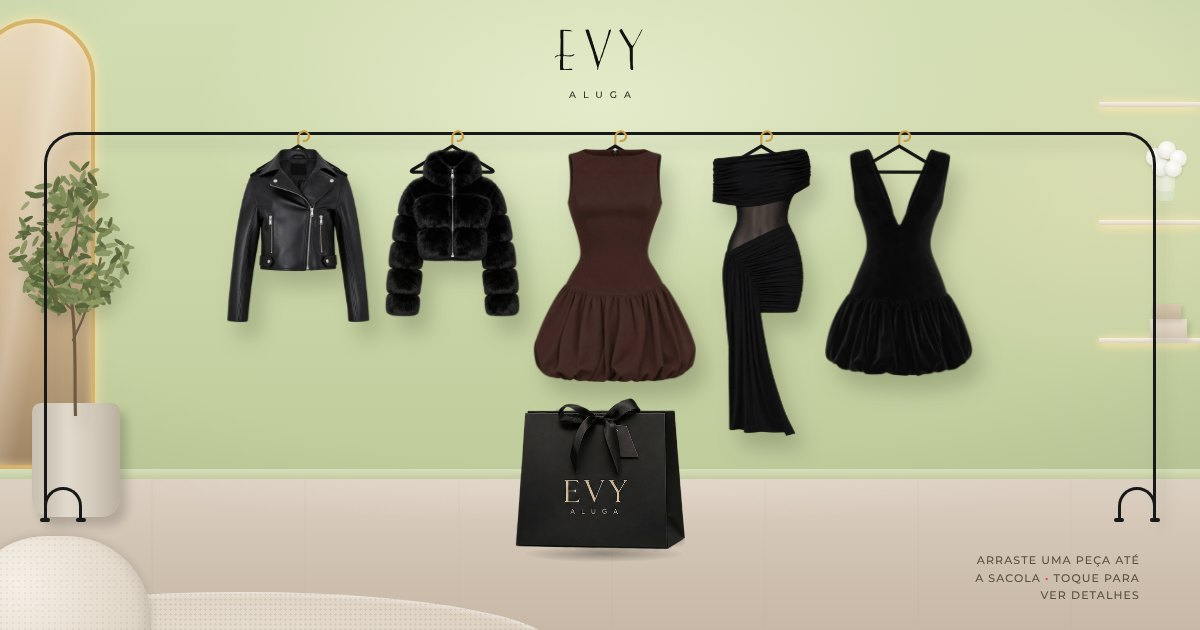
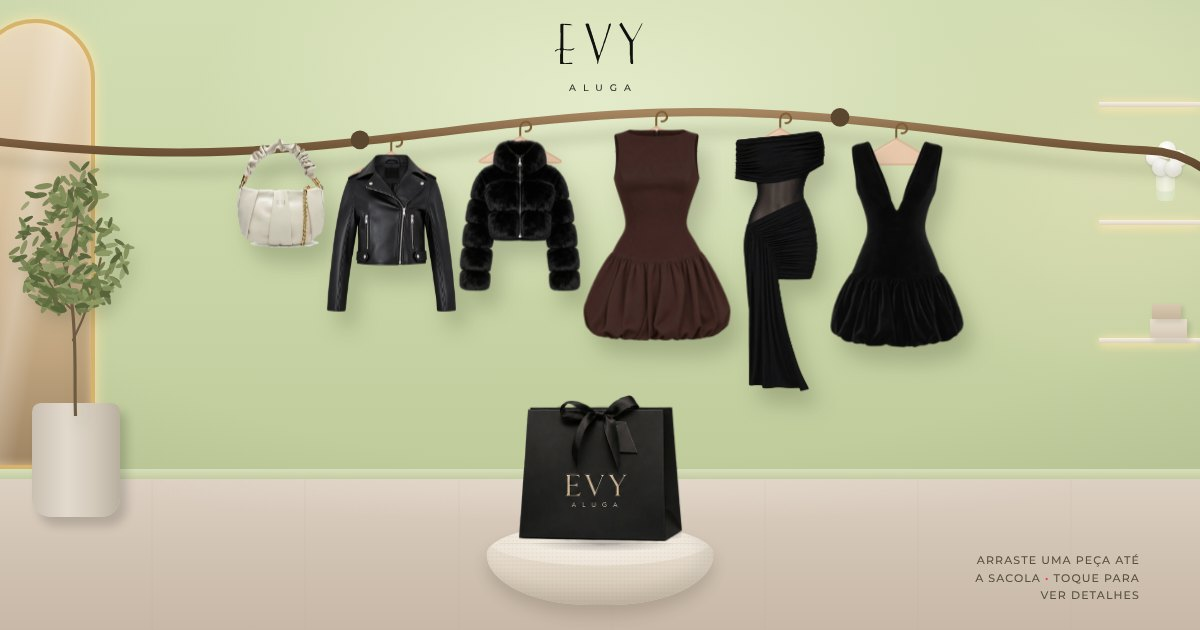
Vitrine EVY: barra ondulada na parede, cabides de madeira e sacola sobre puff
- Arara de chão substituída por barra de madeira ondulada presa à parede;
  cada peça pende na altura da curva.
- Cabides de madeira clara com gancho bronze; bolsa Lorena pendurada pela alça.
- Sacola EVY maior, apoiada em puff redondo de bouclê.

Claude-Session: https://claude.ai/code/session_01JWzVUeVVFgoHDUGqF9rBry

diff --git a/css/evy.css b/css/evy.css
@@ -81,7 +81,7 @@ h1,h2,h3{margin:0;font-weight:500;line-height:1.1}
   radial-gradient(ellipse 30% 60% at 92% 40%,#F3E5C255 0%,transparent 70%),
   linear-gradient(180deg,#D3DDB3 0%,var(--salvia) 55%,#BFCB9B 100%)}
 .parede::after{content:"";position:absolute;inset:0;background:radial-gradient(ellipse 85% 95% at 50% 40%,transparent 60%,#7d875f33 100%)}
-.marca-parede{position:absolute;left:50%;top:4%;transform:translateX(-50%);display:grid;justify-items:center;gap:1.6cqh}
+.marca-parede{position:absolute;left:50%;top:3%;transform:translateX(-50%);display:grid;justify-items:center;gap:1.6cqh}
 .marca-parede img{width:15cqh;height:auto;opacity:.92}
 .marca-parede span{font-size:1.5cqh;font-weight:500;letter-spacing:1.1cqh;margin-right:-1.1cqh;color:#2b2d24}
 .rodape-parede{position:absolute;left:0;right:0;top:calc(var(--chao) - 1.6cqh);height:1.6cqh;background:linear-gradient(180deg,#D6DEBC,#C3CDA0);box-shadow:0 .3cqh .4cqh #6b6a4b33}
@@ -111,24 +111,17 @@ h1,h2,h3{margin:0;font-weight:500;line-height:1.1}
 .vaso-flores{position:absolute;right:4cqh;top:calc(48% - 8cqh);width:3cqh;height:5cqh;border-radius:.6cqh .6cqh 1cqh 1cqh;background:linear-gradient(90deg,#ffffff55,#ffffffaa,#ffffff55);box-shadow:inset 0 -1.5cqh 0 #c9d7b066}
 .vaso-flores b{position:absolute;width:2.8cqh;height:2.8cqh;border-radius:50%;background:radial-gradient(circle at 40% 35%,#fff,#F1EEE6 60%,#DCD6C8);box-shadow:0 .2cqh .4cqh #0002}
 .vaso-flores b:nth-child(1){left:-1.6cqh;top:-3.4cqh}.vaso-flores b:nth-child(2){left:.4cqh;top:-4.6cqh}.vaso-flores b:nth-child(3){left:2.2cqh;top:-3.2cqh}.vaso-flores b:nth-child(4){left:-.6cqh;top:-1.8cqh}.vaso-flores b:nth-child(5){left:1.4cqh;top:-1.6cqh}
-/* Puff de bouclê no primeiro plano */
-.puff{position:absolute;z-index:12;left:-6cqh;bottom:-9cqh;width:30cqh;height:24cqh;border-radius:45% 45% 20% 20%/55% 55% 20% 20%;pointer-events:none;
-  background:radial-gradient(circle at 30% 30%,#F5EFE6 0%,#E8DFD2 45%,#D6CAB9 100%);box-shadow:inset -1cqh -1cqh 2cqh #0000001a,0 -.2cqh 1.4cqh #0000001f}
-.puff::after{content:"";position:absolute;inset:0;border-radius:inherit;background:radial-gradient(#0000000d 1px,transparent 1.4px) 0 0/6px 6px;opacity:.9}
 
-/* Arara de metal preto: barra com cantos arredondados e pés em arco */
+/* Barra ondulada presa à parede (desenhada pelo script conforme a largura) */
 .arara-rolagem{position:absolute;inset:0;overflow-x:auto;overflow-y:hidden;scrollbar-width:none;overscroll-behavior-x:contain;z-index:2}
 .arara-rolagem::-webkit-scrollbar{display:none}
-.arara{position:relative;height:100%;min-width:100%;width:max-content;padding:0 12cqh;display:flex;justify-content:center}
-.arara-barra{position:absolute;pointer-events:none;left:7cqh;right:7cqh;top:21%;bottom:calc(100% - var(--chao) - 6.5cqh);border:.55cqh solid var(--metal);border-bottom:0;border-radius:5cqh 5cqh 0 0;z-index:1;
-  filter:drop-shadow(1.2cqh 1.6cqh 1cqh #3d43293a)}
-.arara-pe{position:absolute;pointer-events:none;bottom:calc(100% - var(--chao) - 6.5cqh);width:6cqh;height:5.2cqh;border:.55cqh solid var(--metal);border-bottom:0;border-radius:3cqh 3cqh 0 0;z-index:1}
-.arara-pe::before,.arara-pe::after{content:"";position:absolute;bottom:-.3cqh;width:1.6cqh;height:.6cqh;border-radius:.3cqh;background:var(--metal)}
-.arara-pe::before{left:-1.1cqh}.arara-pe::after{right:-1.1cqh}
-.arara-pe--esq{left:calc(7cqh + .55cqh - .55cqh)}
-.arara-pe--dir{right:calc(7cqh + .55cqh - .55cqh)}
-.arara-pe--esq{transform:translateX(0)}
-.arara-pecas{position:relative;z-index:2;list-style:none;margin:calc(21cqh - 1.1cqh) 0 0;padding:0;display:flex;align-items:flex-start;gap:2.4cqh;height:fit-content}
+.arara{position:relative;height:100%;min-width:100%;width:max-content;padding:0 14cqh;display:flex;justify-content:center}
+.arara-curva{position:absolute;left:0;top:0;width:100%;height:100%;overflow:visible;pointer-events:none;z-index:1}
+.arara-curva .sombra{fill:none;stroke:#59613f;stroke-opacity:.22;stroke-linecap:round;filter:blur(6px)}
+.arara-curva .madeira{fill:none;stroke:url(#evyMadeira);stroke-linecap:round}
+.arara-curva .suporte{fill:#5b4630}
+.arara-pecas{position:relative;z-index:2;list-style:none;margin:calc(21cqh - 1.1cqh) 0 0;padding:0;display:flex;align-items:flex-start;gap:.4cqh;height:fit-content}
+.arara-pecas>li{transform:translateY(var(--dy,0px))}
 .arara-pecas>li{position:relative}
 
 .peca{
@@ -137,12 +130,13 @@ h1,h2,h3{margin:0;font-weight:500;line-height:1.1}
   touch-action:pan-x;-webkit-tap-highlight-color:transparent;
 }
 .peca:active{cursor:grabbing}
+.peca.sem-cabide .peca-foto{margin-top:-.4cqh}
 .peca-corpo{display:flex;flex-direction:column;align-items:center;transform-origin:50% 1.4cqh;transform:rotate(var(--balanco));will-change:transform}
 .cabide{width:15cqh;height:8.4cqh;flex:none;overflow:visible;position:relative;z-index:1}
-.cabide .gancho{fill:none;stroke:#C9A04A;stroke-width:3.6;stroke-linecap:round}
-.cabide .ombro{fill:none;stroke:#141414;stroke-width:5.5;stroke-linecap:round;stroke-linejoin:round}
-.cabide .brilho{fill:none;stroke:#4a4a4a;stroke-width:1.2;stroke-linecap:round;opacity:.8}
-.peca-foto{position:relative;z-index:2;height:calc(var(--len) * 43cqh);width:auto;max-width:none;margin-top:-4.6cqh;pointer-events:none;
+.cabide .gancho{fill:none;stroke:#7A5B34;stroke-width:3.4;stroke-linecap:round}
+.cabide .ombro{fill:#E8C9AE;stroke:#D9B394;stroke-width:3;stroke-linecap:round;stroke-linejoin:round}
+.cabide .brilho{fill:none;stroke:#F6E3D2;stroke-width:1.4;stroke-linecap:round;opacity:.9}
+.peca-foto{position:relative;z-index:2;height:calc(var(--len) * 39cqh);width:auto;max-width:none;margin-top:-4.6cqh;pointer-events:none;
   filter:drop-shadow(1.6cqh 2.6cqh 1.6cqh #3d452a42);transition:filter .3s}
 @media (hover:hover) and (pointer:fine){
   .peca:hover .peca-foto{filter:drop-shadow(2cqh 3.2cqh 2cqh #3d452a55)}
@@ -151,7 +145,7 @@ h1,h2,h3{margin:0;font-weight:500;line-height:1.1}
 .peca.na-sacola{cursor:default}
 .peca:focus-visible{outline:none}
 .peca:focus-visible .peca-foto{outline:2px solid var(--preto);outline-offset:6px;border-radius:8px}
-.peca-nome{position:absolute;left:50%;top:calc(var(--len) * 43cqh + 6cqh);transform:translate(-50%,6px);white-space:nowrap;font-size:11px;font-weight:600;letter-spacing:.1em;text-transform:uppercase;background:var(--preto);color:var(--branco);padding:6px 12px;border-radius:999px;opacity:0;pointer-events:none;transition:opacity .2s,transform .2s;z-index:4}
+.peca-nome{position:absolute;left:50%;top:calc(var(--len) * 39cqh + 6cqh);transform:translate(-50%,6px);white-space:nowrap;font-size:11px;font-weight:600;letter-spacing:.1em;text-transform:uppercase;background:var(--preto);color:var(--branco);padding:6px 12px;border-radius:999px;opacity:0;pointer-events:none;transition:opacity .2s,transform .2s;z-index:4}
 @media (hover:hover) and (pointer:fine){
   .peca:not(.na-sacola):hover .peca-nome{opacity:1;transform:translate(-50%,0)}
 }
@@ -163,8 +157,15 @@ h1,h2,h3{margin:0;font-weight:500;line-height:1.1}
 .peca-voando img{display:block;width:100%;height:100%;filter:drop-shadow(2cqh 4cqh 2.6cqh #1d22143d)}
 .peca-voando.caindo{z-index:5}
 
-.sacola{position:absolute;z-index:10;left:50%;bottom:12%;width:27cqh;aspect-ratio:336/309;transform:translateX(-50%);padding:0;border:0;background:transparent;-webkit-tap-highlight-color:transparent}
-.sacola::after{content:"";position:absolute;left:4%;right:0;bottom:-1.2cqh;height:2.6cqh;border-radius:50%;background:radial-gradient(ellipse at 50% 50%,#0000004d,transparent 70%);z-index:-1}
+.sacola{position:absolute;z-index:10;left:50%;bottom:calc(4% + 9.4cqh);width:26cqh;aspect-ratio:336/309;transform:translateX(-50%);padding:0;border:0;background:transparent;-webkit-tap-highlight-color:transparent}
+.sacola::after{content:"";position:absolute;left:8%;right:4%;bottom:-1cqh;height:2.4cqh;border-radius:50%;background:radial-gradient(ellipse at 50% 50%,#00000040,transparent 70%);z-index:-1}
+/* Puff redondo de bouclê onde a sacola fica apoiada */
+.puff-sacola{position:absolute;z-index:9;left:50%;bottom:4%;width:36cqh;height:13cqh;transform:translateX(-50%);pointer-events:none;
+  border-radius:50% 50% 46% 46%/38% 38% 62% 62%;
+  background:radial-gradient(ellipse 70% 45% at 50% 20%,#F7F1E8 0%,#ECE4D7 70%,transparent 72%),linear-gradient(180deg,#EDE5D8 0%,#E1D6C6 55%,#CBBDA9 100%);
+  box-shadow:inset -1.6cqh -1.4cqh 2.4cqh #00000014,0 1.6cqh 2.4cqh #3a2f1f2e}
+.puff-sacola::before{content:"";position:absolute;inset:0;border-radius:inherit;background:radial-gradient(#7a6a540c 1px,transparent 1.5px) 0 0/4px 4px}
+.puff-sacola::after{content:"";position:absolute;left:4%;right:4%;top:24%;height:1px;background:#bfb19c66;border-radius:50%}
 .sacola img{width:100%;height:100%;object-fit:contain;transition:transform .25s cubic-bezier(.3,.7,.3,1.3),filter .25s;transform-origin:50% 100%}
 .sacola.alvo img{transform:scale(1.08) translateY(-1cqh);filter:brightness(1.1)}
 .sacola.recebeu img{animation:receber .7s cubic-bezier(.3,.7,.3,1)}
@@ -315,8 +316,8 @@ h1,h2,h3{margin:0;font-weight:500;line-height:1.1}
   .palco{height:clamp(520px,calc(100svh - var(--topo) - 30px),700px)}
   .espelho,.prateleiras{display:none}
   .vaso-planta{left:-6cqh;opacity:.95}
-  .puff{left:auto;right:-10cqh;width:24cqh;height:20cqh}
-  .sacola{width:23cqh;bottom:8%}
+  .sacola{width:22cqh}
+  .puff-sacola{width:31cqh}
   .dica-grande{display:none}
   .dica-celular{display:inline}
   .vitrine-dica{left:0;right:0;bottom:1.6%;max-width:none;text-align:center;font-size:10px}

diff --git a/js/app.js b/js/app.js
@@ -185,11 +185,37 @@ let pecaPendente=null;
 VITRINE.forEach(v=>{
   const p=PORID[v.id];if(!p)return;
   const li=document.createElement('li');
-  li.innerHTML='<button class="peca" type="button" data-id="'+esc(p.id)+'" style="--len:'+v.length+'" aria-label="'+esc(p.name)+': toque para ver detalhes ou arraste até a sacola">'+
-    '<span class="peca-corpo">'+cabideSVG+'<img class="peca-foto" src="'+esc(v.img)+'" alt="" draggable="false" decoding="async"></span>'+
+  li.innerHTML='<button class="peca'+(v.semCabide?' sem-cabide':'')+'" type="button" data-id="'+esc(p.id)+'" style="--len:'+v.length+'" aria-label="'+esc(p.name)+': toque para ver detalhes ou arraste até a sacola">'+
+    '<span class="peca-corpo">'+(v.semCabide?'':cabideSVG)+'<img class="peca-foto" src="'+esc(v.img)+'" alt="" draggable="false" decoding="async"></span>'+
     '<span class="peca-nome" aria-hidden="true">'+esc(p.name)+'</span></button>';
   $('araraPecas').append(li);
 });
+
+/* Barra ondulada: a curva acompanha a largura da arara e cada peça pende na altura da barra. */
+const arara=$('arara'),curva=$('araraCurva');
+function alturaBarra(x,W,H){
+  const t=x/W,base=H*.21,amp=H*.032;
+  return base+amp*Math.sin(2*Math.PI*1.15*t+.5)+(t>.96?Math.pow((t-.96)/.06,2)*H*.05:0);
+}
+function desenharArara(){
+  const W=arara.offsetWidth,H=arara.offsetHeight;if(!W||!H)return;
+  const espessura=H*.013,pts=[];
+  for(let i=0;i<=80;i++){const x=-W*.02+(W*1.04)*i/80;pts.push(x.toFixed(1)+','+alturaBarra(x,W,H).toFixed(1))}
+  const d='M'+pts.join(' L');
+  const suportes=[.3,.7].map(t=>{const x=W*t;return '<circle class="suporte" cx="'+x.toFixed(1)+'" cy="'+(alturaBarra(x,W,H)-espessura*.2).toFixed(1)+'" r="'+(espessura*1.15).toFixed(1)+'"/>'}).join('');
+  curva.setAttribute('viewBox','0 0 '+W+' '+H);
+  curva.innerHTML='<defs><linearGradient id="evyMadeira" x1="0" y1="0" x2="0" y2="1"><stop offset="0" stop-color="#A58560"/><stop offset=".45" stop-color="#76583A"/><stop offset="1" stop-color="#4C3824"/></linearGradient></defs>'+
+    '<path class="sombra" d="'+d+'" transform="translate('+(espessura*1.2)+','+(espessura*2.4)+')" stroke-width="'+espessura+'"/>'+
+    '<path class="madeira" d="'+d+'" stroke-width="'+espessura+'"/>'+suportes;
+  const ar=arara.getBoundingClientRect(),base=H*.21;
+  document.querySelectorAll('#araraPecas>li').forEach(li=>{
+    const r=li.getBoundingClientRect(),cx=r.left+r.width/2-ar.left;
+    li.style.setProperty('--dy',(alturaBarra(cx,W,H)-base).toFixed(1)+'px');
+  });
+}
+new ResizeObserver(desenharArara).observe(arara);
+document.querySelectorAll('.peca-foto').forEach(img=>{if(!img.complete)img.addEventListener('load',desenharArara,{once:true})});
+desenharArara();
 
 /* Pêndulo amortecido: cada peça balança a partir do gancho. */
 const pendulos=new Map();let loopPendulo=0,ultimoPendulo=0;

diff --git a/index.html b/index.html
@@ -76,22 +76,19 @@
         <div class="prateleiras"><i class="prat p1"></i><i class="prat p2"></i><i class="prat p3"></i><i class="caixa c1"></i><i class="caixa c2"></i><i class="vaso-flores"><b></b><b></b><b></b><b></b><b></b></i></div>
         <div class="rodape-parede"></div>
         <div class="piso"></div>
-        <div class="tapete"></div>
         <div class="vaso-planta"><img src="assets/vitrine/planta.svg" alt="" width="220" height="420"><i></i></div>
       </div>
       <div class="arara-rolagem" id="araraRolagem">
         <div class="arara" id="arara">
-          <span class="arara-barra" aria-hidden="true"></span>
-          <span class="arara-pe arara-pe--esq" aria-hidden="true"></span>
-          <span class="arara-pe arara-pe--dir" aria-hidden="true"></span>
+          <svg class="arara-curva" id="araraCurva" aria-hidden="true" focusable="false"></svg>
           <ul class="arara-pecas" id="araraPecas" aria-label="Peças na arara"></ul>
         </div>
       </div>
+      <div class="puff-sacola" aria-hidden="true"></div>
       <button class="sacola" id="sacolaCena" type="button" aria-label="Sacola EVY: solte uma peça aqui ou toque para abrir a sacola">
         <img src="assets/vitrine/sacola.webp" alt="" width="336" height="309" draggable="false">
         <span class="sacola-num" id="sacolaCenaNum" hidden>0</span>
       </button>
-      <div class="puff" aria-hidden="true"></div>
       <p class="vitrine-dica"><span class="dica-grande">Arraste uma peça até a sacola <b aria-hidden="true">·</b> toque para ver detalhes</span><span class="dica-celular">Deslize a arara <b aria-hidden="true">·</b> arraste uma peça até a sacola</span></p>
     </div>
   </section>

diff --git a/js/acervo.js b/js/acervo.js
@@ -94,5 +94,6 @@ window.EVY_ACERVO=[
 ];
 
 /* Peças da vitrine (arara): somente peças com foto em alta resolução.
-   length = comprimento relativo da peça na arara (1 = vestido longo). */
-window.EVY_VITRINE=[{"id": "biker", "img": "assets/vitrine/biker.webp", "length": 0.64}, {"id": "fur", "img": "assets/vitrine/fur.webp", "length": 0.62}, {"id": "marrom", "img": "assets/vitrine/marrom.webp", "length": 0.86}, {"id": "assimetrico", "img": "assets/vitrine/assimetrico.webp", "length": 1.06}, {"id": "balone", "img": "assets/vitrine/balone.webp", "length": 0.84}];
+   length = comprimento relativo da peça na arara (1 = vestido longo);
+   semCabide = bolsa pendurada direto pela alça. */
+window.EVY_VITRINE=[{"id": "lorena", "img": "assets/vitrine/lorena.webp", "length": 0.44, "semCabide": true}, {"id": "biker", "img": "assets/vitrine/biker.webp", "length": 0.64}, {"id": "fur", "img": "assets/vitrine/fur.webp", "length": 0.62}, {"id": "marrom", "img": "assets/vitrine/marrom.webp", "length": 0.86}, {"id": "assimetrico", "img": "assets/vitrine/assimetrico.webp", "length": 1.06}, {"id": "balone", "img": "assets/vitrine/balone.webp", "length": 0.84}];
